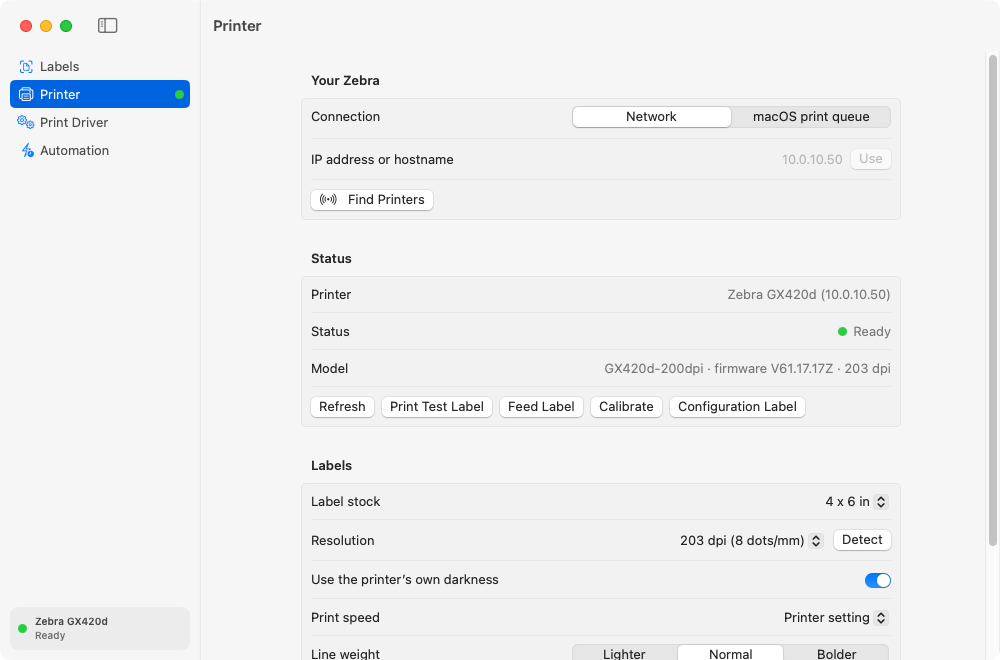
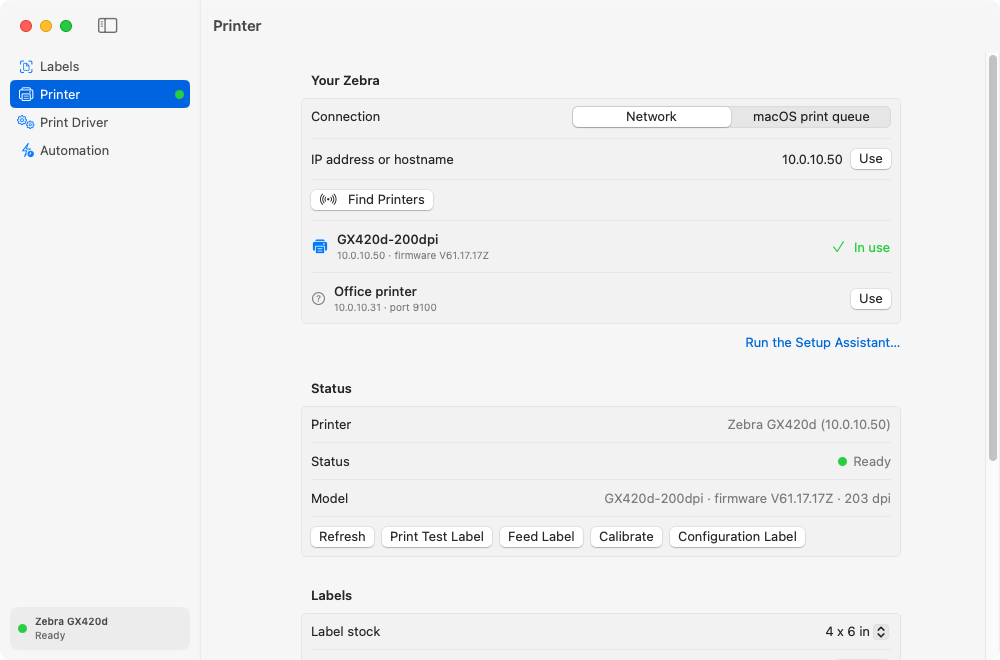
README: Setup Assistant with the how-it-works animation and step screenshots
Claude-Session: https://claude.ai/code/session_013ungtXEr3zwjxFszDgfNX2

diff --git a/README.md b/README.md
@@ -66,17 +66,31 @@ Building from source: `./install.sh` (Xcode or the Command Line Tools) builds th
 
 ## Set up (once)
 
+When the installer finishes, Tearoff opens its **Setup Assistant**. It takes about a minute:
+
+1. **Find your printer.** Tearoff searches your network and lists Zebras first. A single Zebra is picked for you, or you can
+   type its IP address. macOS asks once to allow local network access; click Allow.
+2. **Add it to your Mac.** One click adds e.g. "Zebra GX420d" to the Mac's printers, connected straight to the printer
+   (`socket://IP:9100`), so it's in the Print dialog of every app. Usually no password is needed.
+3. **Test print.** Print a test label, then answer *How did it come out?* Each answer has a fix: darkness for too light or too
+   dark, calibrating and label stock for cut-off or shifted labels, and troubleshooting when nothing printed. **Open Sample**
+   opens a sample return page in Preview, so you can try ⌘P for real. It prints the label, the return barcode and the QR code.
+4. **Start printing.** An animation shows the whole idea:
+
+<p align="center"><img src="docs/how-it-works.gif" width="668" alt="Animation: a return page in the browser, Command-P, the Print dialog, Tearoff finds the label, the barcode and the QR code, and only those print"></p>
+
+<p align="center">
+  <img src="docs/setup-find.png" width="420" alt="Setup Assistant: find your printer">
+  <img src="docs/setup-test.png" width="420" alt="Setup Assistant: test print">
+</p>
+
+Open it again any time from **Tearoff ▸ Setup Assistant…**, the menu bar icon, or the Printer pane. Everything it sets is also in
+the main window:
+
 <p align="center">
   <img src="docs/printer.png" width="420" alt="Printer pane: status, test label, calibrate, darkness and speed">
   <img src="docs/driver.png" width="420" alt="Print Driver pane: install the system printer">
 </p>
-
-1. **Printer**: Tearoff looks for Zebras on your network. Click **Use**, or type the IP address. It asks the printer for its
-   resolution (203/300/600 dpi). macOS asks once to allow local network access; click Allow.
-2. **Print Driver**: click **Install Driver & Add Printer** and enter your password. This adds e.g. "Zebra GX420d" to macOS,
-   connected straight to the printer (`socket://IP:9100`). Already have a Zebra queue? **Switch existing printers** keeps its
-   name and connection.
-3. Optional: **Print Test Label**. If the bars scan, you're set. If labels drift, run **Calibrate** once.
 
 ## Print
 
